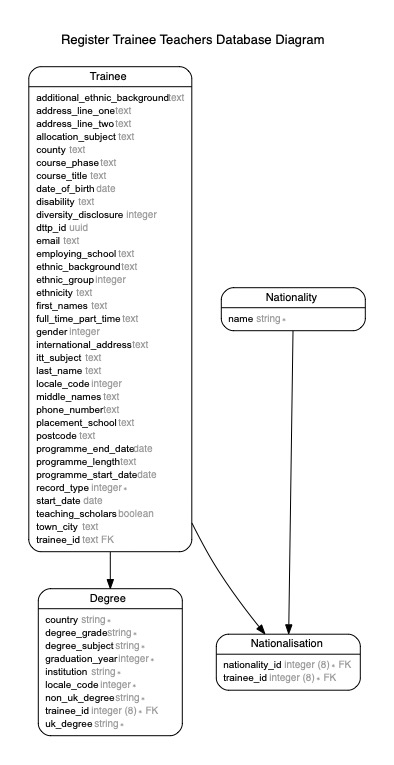
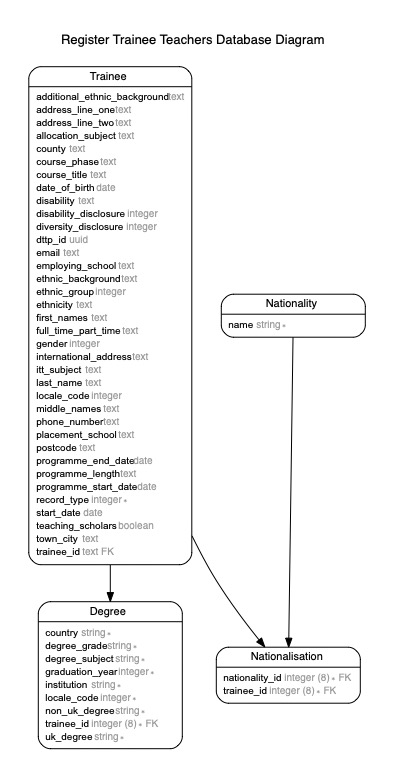
298] - Implement disability disclosure section of diversity workflow

diff --git a/spec/features/trainees/diversities/edit_disability_disclosure_spec.rb b/spec/features/trainees/diversities/edit_disability_disclosure_spec.rb
@@ -1,0 +1,84 @@
+require "rails_helper"
+
+feature "edit disability disclosure", type: :feature do
+  scenario "disclosing a disability" do
+    given_a_trainee_exists
+    when_i_visit_the_disability_disclosure_page
+    and_i_choose_to_disclose
+    and_i_submit_the_form
+    then_i_am_redirected_to_the_summary_page
+    and_the_disability_disclosure_is_updated
+  end
+
+  scenario "submitting with no option selected" do
+    given_a_trainee_exists
+    when_i_visit_the_disability_disclosure_page
+    and_i_submit_the_form
+    then_i_see_error_messages
+  end
+
+  scenario "returning to the correct previous step" do
+    given_a_trainee_without_an_ethnic_group_exists
+    when_i_visit_the_diversity_ethnic_group_page
+    and_i_submit_the_ethnic_group_form
+    and_i_click_back
+    then_i_should_return_to_ethnic_group_page
+  end
+
+  def given_a_trainee_exists
+    @trainee = create(:trainee, disability_disclosure: nil)
+  end
+
+  def given_a_trainee_without_an_ethnic_group_exists
+    @trainee = create(
+      :trainee,
+      ethnic_group: Diversities::ETHNIC_GROUP_ENUMS[:not_provided],
+    )
+  end
+
+  def when_i_visit_the_disability_disclosure_page
+    @disability_disclosure_page ||= PageObjects::Trainees::Diversities::DisabilityDisclosure.new
+    @disability_disclosure_page.load(id: @trainee.id)
+  end
+
+  def and_i_choose_to_disclose
+    @disability_disclosure_page.disabled.choose
+  end
+
+  def and_i_submit_the_form
+    @disability_disclosure_page.submit_button.click
+  end
+
+  def then_i_am_redirected_to_the_summary_page
+    @summary_page ||= PageObjects::Trainees::Summary.new
+    expect(@summary_page).to be_displayed(id: @trainee.id)
+  end
+
+  def and_the_disability_disclosure_is_updated
+    expect(@trainee.reload.disability_disclosure).to be_truthy
+  end
+
+  def when_i_visit_the_diversity_ethnic_group_page
+    @ethnic_group_page ||= PageObjects::Trainees::Diversities::EthnicGroup.new
+    @ethnic_group_page.load(id: @trainee.id)
+  end
+
+  def and_i_submit_the_ethnic_group_form
+    @ethnic_group_page.submit_button.click
+  end
+
+  def and_i_click_back
+    expect(page.current_path).to eq(edit_trainee_diversity_disability_disclosure_path(@trainee))
+    page.find(".govuk-back-link").click
+  end
+
+  def then_i_should_return_to_ethnic_group_page
+    expect(@ethnic_group_page).to be_displayed(id: @trainee.id)
+  end
+
+  def then_i_see_error_messages
+    expect(page).to have_content(
+      I18n.t("activemodel.errors.models.diversities/disability_disclosure.attributes.disability_disclosure.blank"),
+    )
+  end
+end

diff --git a/spec/services/diversities/disability_disclosures/update_spec.rb b/spec/services/diversities/disability_disclosures/update_spec.rb
@@ -1,0 +1,42 @@
+require "rails_helper"
+
+module Diversities
+  module DisabilityDisclosures
+    describe Update do
+      describe ".call" do
+        let(:trainee) { create(:trainee, disability_disclosure: nil) }
+        let(:service) { described_class.new(trainee: trainee, attributes: attributes) }
+
+        before(:each) do
+          service.call
+          trainee.reload
+        end
+
+        context "when disability disclosure attribute is valid" do
+          let(:attributes) { { disability_disclosure: DISABILITY_DISCLOSURE_ENUMS[:disabled] } }
+
+          it "updates the trainee's disclosure details" do
+            expect(trainee.disability_disclosure).to be_truthy
+            expect(trainee.disability_disclosure).to eq(attributes[:disability_disclosure])
+          end
+
+          it "is successful" do
+            expect(service).to be_successful
+          end
+        end
+
+        context "when disability disclosure attribute is invalid" do
+          let(:attributes) { { disability_disclosure: nil } }
+
+          it "does not update the trainee's disclosure details" do
+            expect(trainee.disability_disclosure).to be_falsey
+          end
+
+          it "is unsuccessful" do
+            expect(service).to_not be_successful
+          end
+        end
+      end
+    end
+  end
+end

diff --git a/spec/features/trainees/diversities/edit_ethnic_group_spec.rb b/spec/features/trainees/diversities/edit_ethnic_group_spec.rb
@@ -33,7 +33,7 @@ feature "edit ethnic group", type: :feature do
     when_i_visit_the_diversity_ethnic_group_page
     and_i_choose(Diversities::ETHNIC_GROUP_ENUMS[:not_provided])
     and_i_submit_the_form
-    then_i_am_redirected_to_the_summary_page
+    then_i_am_redirected_to_the_disability_disclosure_page
     and_the_diversity_ethnic_group_is_updated_with(Diversities::ETHNIC_GROUP_ENUMS[:not_provided])
   end
 
@@ -69,9 +69,9 @@ feature "edit ethnic group", type: :feature do
     expect(@ethnic_background_page).to be_displayed(id: @trainee.id)
   end
 
-  def then_i_am_redirected_to_the_summary_page
-    @summary_page ||= PageObjects::Trainees::Summary.new
-    expect(@summary_page).to be_displayed(id: @trainee.id)
+  def then_i_am_redirected_to_the_disability_disclosure_page
+    @disability_disclosure_page ||= PageObjects::Trainees::Diversities::DisabilityDisclosure.new
+    expect(@disability_disclosure_page).to be_displayed(id: @trainee.id)
   end
 
   def and_the_diversity_ethnic_group_is_updated_with(selected_group)

diff --git a/app/controllers/trainees/diversity/disability_disclosures_controller.rb b/app/controllers/trainees/diversity/disability_disclosures_controller.rb
@@ -1,0 +1,35 @@
+module Trainees
+  module Diversity
+    class DisabilityDisclosuresController < ApplicationController
+      def edit
+        @disability_disclosure = Diversities::DisabilityDisclosure.new(trainee: trainee)
+      end
+
+      def update
+        updater = Diversities::DisabilityDisclosures::Update.call(
+          trainee: trainee,
+          attributes: disability_disclosure_params,
+        )
+
+        if updater.successful?
+          redirect_to(trainee_path(trainee))
+        else
+          @disability_disclosure = updater.disability_disclosure
+          render :edit
+        end
+      end
+
+    private
+
+      def trainee
+        @trainee ||= Trainee.find(params[:trainee_id])
+      end
+
+      def disability_disclosure_params
+        return { disability_disclosure: nil } if params[:diversities_disability_disclosure].blank?
+
+        params.require(:diversities_disability_disclosure).permit(*Diversities::DisabilityDisclosure::FIELDS)
+      end
+    end
+  end
+end

diff --git a/spec/features/trainees/diversities/edit_ethnic_background_spec.rb b/spec/features/trainees/diversities/edit_ethnic_background_spec.rb
@@ -6,7 +6,7 @@ feature "edit ethnic background", type: :feature do
     when_i_visit_the_diversity_ethnic_background_page
     and_i_enter_valid_parameters
     and_i_submit_the_form
-    then_i_am_redirected_to_the_summary_page
+    then_i_am_redirected_to_the_disability_disclosure_page
     and_the_diversity_ethnic_background_is_updated
   end
 
@@ -34,9 +34,9 @@ feature "edit ethnic background", type: :feature do
     @ethnic_background_page.submit_button.click
   end
 
-  def then_i_am_redirected_to_the_summary_page
-    @summary_page ||= PageObjects::Trainees::Summary.new
-    expect(@summary_page).to be_displayed(id: @trainee.id)
+  def then_i_am_redirected_to_the_disability_disclosure_page
+    @disability_disclosure_page ||= PageObjects::Trainees::Diversities::DisabilityDisclosure.new
+    expect(@disability_disclosure_page).to be_displayed(id: @trainee.id)
   end
 
   def and_the_diversity_ethnic_background_is_updated

diff --git a/db/schema.rb b/db/schema.rb
@@ -10,7 +10,7 @@
 #
 # It's strongly recommended that you check this file into your version control system.
 
-ActiveRecord::Schema.define(version: 2020_10_26_155127) do
+ActiveRecord::Schema.define(version: 2020_10_29_121055) do
 
   # These are extensions that must be enabled in order to support this database
   enable_extension "plpgsql"
@@ -85,6 +85,8 @@ ActiveRecord::Schema.define(version: 2020_10_26_155127) do
     t.integer "ethnic_group"
     t.text "ethnic_background"
     t.text "additional_ethnic_background"
+    t.integer "disability_disclosure"
+    t.index ["disability_disclosure"], name: "index_trainees_on_disability_disclosure"
     t.index ["diversity_disclosure"], name: "index_trainees_on_diversity_disclosure"
     t.index ["dttp_id"], name: "index_trainees_on_dttp_id"
     t.index ["ethnic_group"], name: "index_trainees_on_ethnic_group"

diff --git a/app/services/diversities/disability_disclosures/update.rb b/app/services/diversities/disability_disclosures/update.rb
@@ -1,0 +1,26 @@
+module Diversities
+  module DisabilityDisclosures
+    class Update
+      attr_reader :trainee, :disability_disclosure, :successful
+
+      alias_method :successful?, :successful
+
+      class << self
+        def call(**args)
+          new(**args).call
+        end
+      end
+
+      def initialize(trainee:, attributes: {})
+        @trainee = trainee
+        trainee.assign_attributes(attributes)
+        @disability_disclosure = Diversities::DisabilityDisclosure.new(trainee: trainee)
+      end
+
+      def call
+        @successful = disability_disclosure.valid? && trainee.save!
+        self
+      end
+    end
+  end
+end

diff --git a/spec/support/page_objects/trainees/diversities/disability_disclosure.rb b/spec/support/page_objects/trainees/diversities/disability_disclosure.rb
@@ -1,0 +1,13 @@
+module PageObjects
+  module Trainees
+    module Diversities
+      class DisabilityDisclosure < PageObjects::Base
+        set_url "/trainees/{id}/diversity/disability-disclosure/edit"
+        element :disabled, "#diversities-disability-disclosure-disability-disclosure-disabled-field"
+        element :not_disabled, "#diversities-disability-disclosure-disability-disclosure-not-disabled-field"
+        element :disability_not_provided, "#diversities-disability-disclosure-disability-disclosure-disability-not-provided-field"
+        element :submit_button, "input[name='commit']"
+      end
+    end
+  end
+end

diff --git a/spec/models/trainee_spec.rb b/spec/models/trainee_spec.rb
@@ -15,6 +15,14 @@ describe Trainee do
     end
 
     it do
+      is_expected.to define_enum_for(:disability_disclosure).with_values(
+        Diversities::DISABILITY_DISCLOSURE_ENUMS[:disabled] => 0,
+        Diversities::DISABILITY_DISCLOSURE_ENUMS[:not_disabled] => 1,
+        Diversities::DISABILITY_DISCLOSURE_ENUMS[:not_provided] => 2,
+      )
+    end
+
+    it do
       is_expected.to define_enum_for(:ethnic_group).with_values(
         Diversities::ETHNIC_GROUP_ENUMS[:asian] => 0,
         Diversities::ETHNIC_GROUP_ENUMS[:black] => 1,

diff --git a/app/helpers/diversities_helper.rb b/app/helpers/diversities_helper.rb
@@ -1,9 +1,13 @@
-module EthnicGroupsHelper
+module DiversitiesHelper
   def format_ethnic_group_options(options)
     options.reject { |option| option == Diversities::ETHNIC_GROUP_ENUMS[:not_provided] }
   end
 
   def other_ethnic_background_option?(ethnic_background)
     ethnic_background.include?("Another") && ethnic_background.include?("background")
+  end
+
+  def format_disability_disclosure_options(options)
+    options.reject { |option| option == Diversities::DISABILITY_DISCLOSURE_ENUMS[:not_provided] }
   end
 end

diff --git a/app/models/diversities/disability_disclosure.rb b/app/models/diversities/disability_disclosure.rb
@@ -1,0 +1,21 @@
+module Diversities
+  class DisabilityDisclosure
+    include ActiveModel::Model
+    attr_accessor :trainee
+
+    FIELDS = %w[
+      disability_disclosure
+    ].freeze
+
+    attr_accessor(*FIELDS)
+
+    validates :disability_disclosure, presence: true, inclusion: { in: Diversities::DISABILITY_DISCLOSURE_ENUMS.values }
+
+    delegate :id, :persisted?, to: :trainee
+
+    def initialize(trainee:)
+      @trainee = trainee
+      super(trainee.attributes.slice(*FIELDS))
+    end
+  end
+end

diff --git a/app/models/trainee.rb b/app/models/trainee.rb
@@ -11,6 +11,12 @@ class Trainee < ApplicationRecord
     Diversities::DIVERSITY_DISCLOSURE_ENUMS[:diversity_not_disclosed] => 1,
   }
 
+  enum disability_disclosure: {
+    Diversities::DISABILITY_DISCLOSURE_ENUMS[:disabled] => 0,
+    Diversities::DISABILITY_DISCLOSURE_ENUMS[:not_disabled] => 1,
+    Diversities::DISABILITY_DISCLOSURE_ENUMS[:not_provided] => 2,
+  }
+
   enum ethnic_group: {
     Diversities::ETHNIC_GROUP_ENUMS[:asian] => 0,
     Diversities::ETHNIC_GROUP_ENUMS[:black] => 1,
